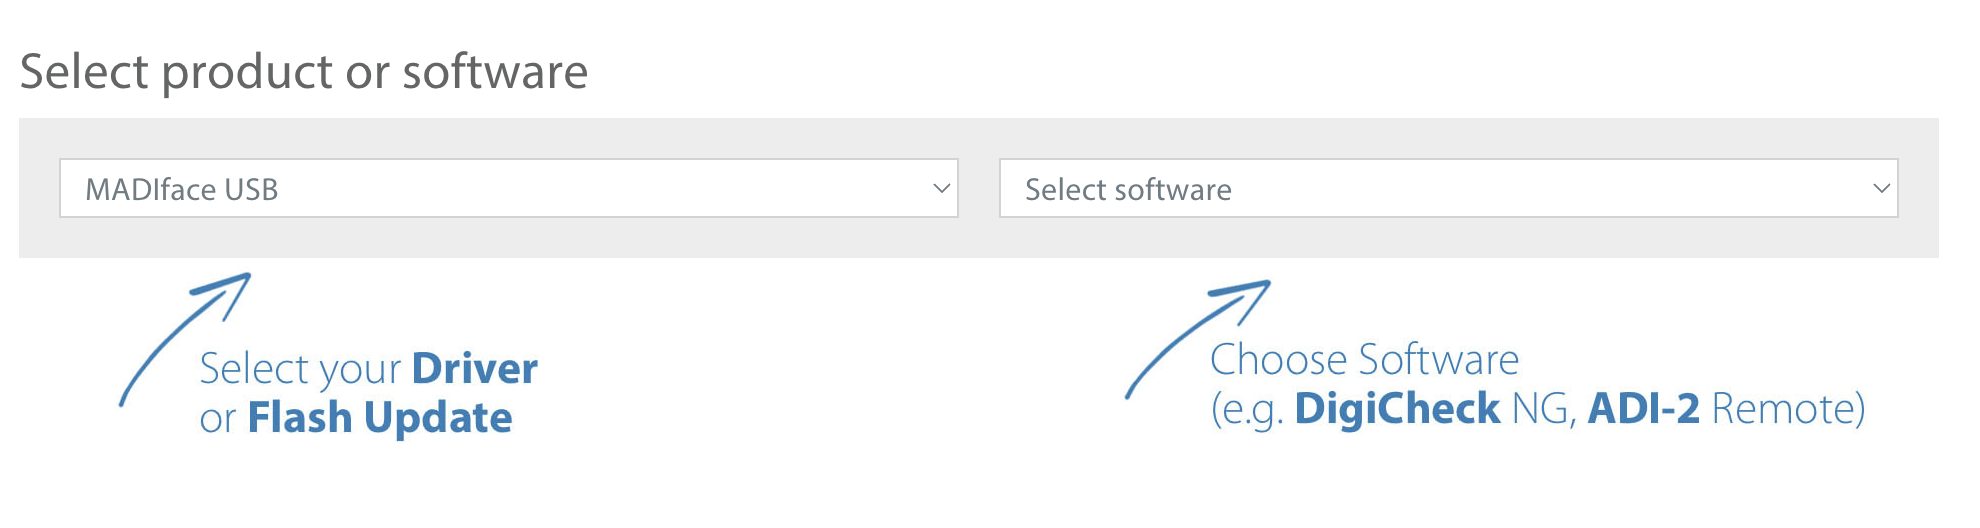
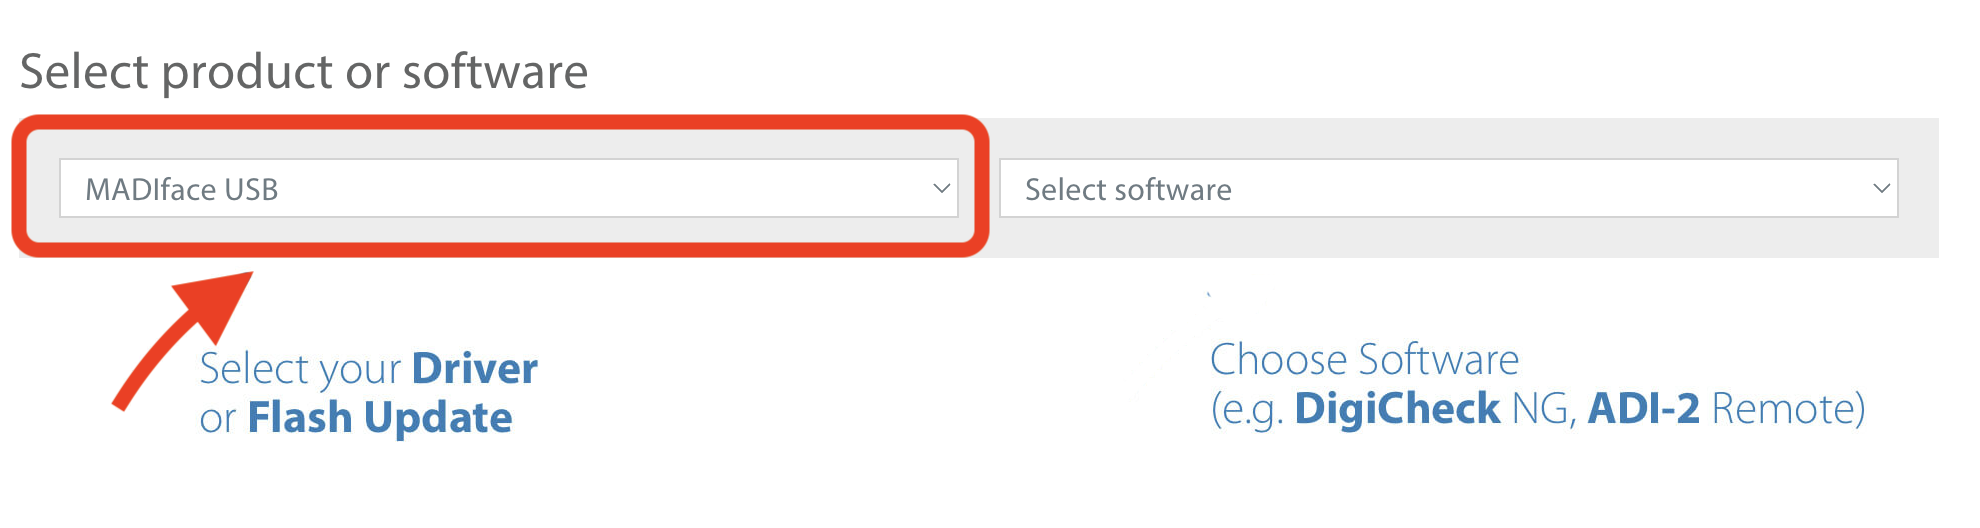
Update First Time Installation guide with TotalMix2025.tmws file references and additional screenshots

Changed region(s): [[0.0, 0.2121, 0.5237, 0.7576], [0.5854, 0.5152, 0.647, 0.6667], [0.5545, 0.697, 0.5854, 0.7576]]

diff --git a/first-time-installation.html b/first-time-installation.html
@@ -23,9 +23,6 @@
         .step {
             margin: 20px 0;
             padding: 15px;
-            background: #f8f5ff;
-            border-left: 4px solid var(--nyu-purple);
-            border-radius: 5px;
         }
         
         .step h3 {
@@ -102,55 +99,80 @@
             
             <div class="step">
                 <h3>Download RME Driver</h3>
-                <div class="substep">
-                    <strong>1. Navigate to the RME downloads page:</strong>
-                    <p>Go to: <a href="https://rme-audio.de/downloads.html" target="_blank" rel="noopener">rme-audio.de/downloads.html</a></p>
-                </div>
-                
-                <div class="substep">
-                    <strong>2. Select Product:</strong>
-                    <p>Under "Select Product or Software", choose <strong>MadiFace USB</strong> in the left dialog box.</p>
-                    <div class="screenshot">
-                        <img src="images/screenshot1.png" alt="RME Product Selection Dialog" style="max-width: 100%; height: auto; border-radius: 5px; margin-top: 10px;">
-                    </div>
-                </div>
-                
-                <div class="substep">
-                    <strong>3. Select Operating System and Driver Type:</strong>
-                    <p>Select your operating system, and then select <strong>"Driver"</strong>.</p>
-                    <div class="screenshot">
-                        <img src="images/screenshot2.png" alt="RME OS and Driver Selection" style="max-width: 100%; height: auto; border-radius: 5px; margin-top: 10px;">
-                    </div>
-                </div>
-                
-                <div class="substep">
-                    <strong>4. Download the Correct Driver:</strong>
-                    <p><strong>Download only the latest DriverKit Driver.</strong> Ignore "Kernel Extension Driver".</p>
-                    <div class="screenshot">
-                        <img src="images/screenshot3.png" alt="RME Driver Selection Options" style="max-width: 100%; height: auto; border-radius: 5px; margin-top: 10px;">
-                    </div>
-                </div>
+                <ul style="list-style: none; padding-left: 0;">
+                    <li style="margin: 15px 0;">
+                        <span style="color: var(--nyu-purple); font-weight: bold;">•</span> Navigate to the RME downloads page: <a href="https://rme-audio.de/downloads.html" target="_blank" rel="noopener">rme-audio.de/downloads.html</a>
+                    </li>
+                    
+                    <li style="margin: 15px 0;">
+                        <span style="color: var(--nyu-purple); font-weight: bold;">•</span> Under "Select Product or Software", choose <strong style="color: var(--nyu-purple);">MadiFace USB</strong> in the left dialog box.
+                        <div class="screenshot">
+                            <img src="images/screenshot1.png" alt="RME Product Selection Dialog" style="max-width: 100%; height: auto; border-radius: 5px; margin-top: 10px;">
+                        </div>
+                    </li>
+                    
+                    <li style="margin: 15px 0;">
+                        <span style="color: var(--nyu-purple); font-weight: bold;">•</span> Select your operating system, and then select <strong style="color: var(--nyu-purple);">"Driver"</strong>.
+                        <div class="screenshot">
+                            <img src="images/screenshot2.png" alt="RME OS and Driver Selection" style="max-width: 100%; height: auto; border-radius: 5px; margin-top: 10px;">
+                        </div>
+                    </li>
+                    
+                    <li style="margin: 15px 0;">
+                        <span style="color: var(--nyu-purple); font-weight: bold;">•</span> <strong style="color: var(--nyu-purple);">Download only the latest DriverKit Driver.</strong> Ignore "Kernel Extension Driver".
+                        <div class="screenshot">
+                            <img src="images/screenshot3.png" alt="RME Driver Selection Options" style="max-width: 100%; height: auto; border-radius: 5px; margin-top: 10px;">
+                        </div>
+                    </li>
+                    
+                    <li style="margin: 15px 0;">
+                        <span style="color: var(--nyu-purple); font-weight: bold;">•</span> After installation, you should have both <strong style="color: var(--nyu-purple);">Totalmix</strong> and <strong style="color: var(--nyu-purple);">FireFace USB Settings</strong> in your Applications folder.
+                    </li>
+                </ul>
             </div>
             
             <div class="step">
                 <h3>After Installation</h3>
-                <p>After installation, you should have both <strong>Totalmix</strong> and <strong>FireFace USB Settings</strong> in your Applications folder.</p>
+                
+                <ul style="list-style: none; padding-left: 0;">
+                    <li style="margin: 15px 0;">
+                        <span style="color: var(--nyu-purple); font-weight: bold;">•</span> Open both <strong style="color: var(--nyu-purple);">TotalMix</strong> and <strong style="color: var(--nyu-purple);">FireFace USB Settings</strong> applications.
+                    </li>
                 
                 <div class="warning">
                     <h4><i class="fas fa-exclamation-triangle"></i> Important Note</h4>
-                    <p>Due to a known DriverKit bug, audio may not play until both Totalmix and FireFace USB Settings windows have been opened. You may want to force them to automatically open every time your computer starts up.</p>
+                    <p>Due to a known <strong style="color: var(--nyu-purple);">DriverKit bug</strong>, audio may not play until both Totalmix and FireFace USB Settings windows have been opened. You may want to force them to <strong style="color: var(--nyu-purple);">automatically open</strong> every time your computer starts up.</p>
                     
                     <p><strong>To set up auto-start:</strong></p>
                     <ol>
-                        <li>Go to <strong>System Preferences</strong></li>
-                        <li>Navigate to <strong>Login Items & Extensions</strong></li>
-                        <li>Click <strong>Open at Login</strong></li>
-                        <li>Add both applications via the <strong>'+'</strong> button</li>
+                        <li>Go to <strong style="color: var(--nyu-purple);">System Preferences</strong>.</li>
+                        <li>Navigate to <strong style="color: var(--nyu-purple);">Login Items & Extensions</strong>.</li>
+                        <li>Click <strong style="color: var(--nyu-purple);">Open at Login</strong>.</li>
+                        <li>Add both applications via the <strong style="color: var(--nyu-purple);">'+'</strong> button.</li>
                     </ol>
                     
                     <div class="screenshot">
                         <img src="images/screenshot4.png" alt="System Preferences Login Items Configuration" style="max-width: 100%; height: auto; border-radius: 5px; margin-top: 10px;">
                     </div>
+                </div>
+                
+                    <li style="margin: 15px 0;">
+                        <span style="color: var(--nyu-purple); font-weight: bold;">•</span> Download the <strong style="color: var(--nyu-purple);">TotalMix2025.tmws</strong> file from <a href="https://drive.google.com/file/d/1RA4nRW7Ua7Z82gw_JJcleok4c8Zwbl6e/view?usp=drive_link" target="_blank" rel="noopener" style="color: var(--nyu-purple); font-weight: bold;">this link</a>. This is the template for the Research Lab.
+                    </li>
+                    
+                    <li style="margin: 15px 0;">
+                        <span style="color: var(--nyu-purple); font-weight: bold;">•</span> In <strong style="color: var(--nyu-purple);">TotalMix</strong>, go to <strong style="color: var(--nyu-purple);">File > Load Workspace</strong>, and load the <strong style="color: var(--nyu-purple);">TotalMix2025.tmws</strong> file you just downloaded. TotalMix is now configured for the Research Lab.
+                    </li>
+                </ul>
+                
+                <div class="screenshot">
+                    <img src="images/screenshot5.png" alt="TotalMix Workspace Configuration" style="max-width: 100%; height: auto; border-radius: 5px; margin-top: 10px;">
+                </div>
+                
+                <div style="text-align: center; margin-top: 30px; padding: 20px;">
+                    <a href="https://www.rme-audio.de/totalmix-fx.html" target="_blank" rel="noopener" style="color: white; background-color: var(--nyu-purple); font-weight: bold; text-decoration: none; padding: 10px 20px; border: 2px solid var(--nyu-purple); border-radius: 5px; display: inline-block;">
+                        Click here to learn more about TotalMix
+                    </a>
                 </div>
             </div>
         </div>

diff --git a/research-lab.html b/research-lab.html
@@ -1,0 +1,160 @@
+<!DOCTYPE html>
+<html lang="en">
+<head>
+    <meta charset="UTF-8">
+    <meta name="viewport" content="width=device-width, initial-scale=1.0">
+    <title>Research Lab - NYU MPAP Room Guides</title>
+    <link rel="icon" type="image/x-icon" href="images/favicon.ico">
+    <link rel="apple-touch-icon" href="images/apple-touch-icon.png">
+    <link rel="stylesheet" href="css/styles.css?v=3.0">
+    <link rel="stylesheet" href="https://cdnjs.cloudflare.com/ajax/libs/font-awesome/6.0.0/css/all.min.css">
+    <script src="https://cdnjs.cloudflare.com/ajax/libs/p5.js/1.9.0/p5.min.js"></script>
+    <script src="js/background.js"></script>
+    <style>
+        .research-content {
+            max-width: 800px;
+            margin: 0 auto;
+            padding: 20px;
+            background: rgba(255, 255, 255, 0.95);
+            border-radius: 10px;
+            box-shadow: 0 4px 6px rgba(0, 0, 0, 0.1);
+        }
+        
+        .research-options {
+            display: grid;
+            grid-template-columns: repeat(auto-fit, minmax(300px, 1fr));
+            gap: 20px;
+            margin: 30px 0;
+        }
+        
+        .research-card {
+            background: #f8f5ff;
+            border: 2px solid var(--nyu-light-purple);
+            border-radius: 10px;
+            padding: 25px;
+            text-align: center;
+            transition: all 0.3s ease;
+            text-decoration: none;
+            color: var(--nyu-dark-gray);
+        }
+        
+        .research-card:hover {
+            background: var(--nyu-light-purple);
+            color: white;
+            transform: translateY(-5px);
+            box-shadow: 0 8px 15px rgba(0, 0, 0, 0.2);
+            text-decoration: none;
+        }
+        
+        .research-card h3 {
+            color: var(--nyu-purple);
+            margin-bottom: 15px;
+            font-size: 1.5em;
+        }
+        
+        .research-card:hover h3 {
+            color: white;
+        }
+        
+        .research-card p {
+            margin: 0;
+            line-height: 1.5;
+        }
+        
+        .research-card i {
+            font-size: 3em;
+            color: var(--nyu-light-purple);
+            margin-bottom: 15px;
+        }
+        
+        .research-card:hover i {
+            color: white;
+        }
+        
+        .back-link {
+            display: inline-block;
+            margin-bottom: 20px;
+            color: var(--nyu-purple);
+            text-decoration: none;
+            font-weight: bold;
+            padding: 8px 16px;
+            background: #f8f5ff;
+            border: 1px solid var(--nyu-light-purple);
+            border-radius: 5px;
+            transition: all 0.3s ease;
+        }
+        
+        .back-link:hover {
+            background: var(--nyu-light-purple);
+            color: white;
+            text-decoration: none;
+        }
+    </style>
+</head>
+<body>
+    <div class="container">
+        <header>
+            <div class="header-content">
+                <img src="images/nyu-logo.svg" alt="NYU Logo" class="nyu-logo">
+                <h1>MPAP ROOM GUIDES</h1>
+            </div>
+        </header>
+
+        <div class="research-content">
+            <a href="index.html" class="back-link">
+                <i class="fas fa-arrow-left"></i> Back to Room Guides
+            </a>
+            
+            <h2><i class="fas fa-microscope"></i> Research Lab</h2>
+            <p>Access research lab resources and setup guides for MPAP equipment and software.</p>
+            
+            <div class="research-options">
+                <a href="first-time-installation.html" class="research-card">
+                    <i class="fas fa-download"></i>
+                    <h3>First Time Installation</h3>
+                    <p>Step-by-step guide for setting up RME drivers and audio equipment configuration.</p>
+                </a>
+                
+                <a href="https://sites.google.com/nyu.edu/research-lab-guide-2024-home/" target="_blank" rel="noopener" class="research-card">
+                    <i class="fas fa-external-link-alt"></i>
+                    <h3>Research Lab Guide</h3>
+                    <p>External comprehensive guide for research lab procedures and equipment usage.</p>
+                </a>
+            </div>
+        </div>
+
+        <footer>
+            <p>© NYU MPAP Room Guide</p>
+        </footer>
+    </div>
+
+    <script>
+        // Cat toggle logic
+        let catEnabled = false;
+        let catScript = null;
+        function toggleCat() {
+            if (!catEnabled) {
+                catScript = document.createElement('script');
+                catScript.src = 'js/oneko.js';
+                catScript.dataset.cat = 'js/images/oneko.gif';
+                document.body.appendChild(catScript);
+                catEnabled = true;
+            } else {
+                const neko = document.getElementById('oneko');
+                if (neko) neko.remove();
+                if (catScript) catScript.remove();
+                catScript = null;
+                catEnabled = false;
+            }
+        }
+        document.addEventListener('DOMContentLoaded', function() {
+            const logo = document.querySelector('.nyu-logo');
+            if (logo) {
+                logo.style.cursor = 'pointer';
+                logo.title = 'Toggle Cat';
+                logo.addEventListener('click', toggleCat);
+            }
+        });
+    </script>
+</body>
+</html>

diff --git a/index.html b/index.html
@@ -171,9 +171,9 @@
                                 <div class="space-name">Conference Room</div>
                                 <div class="space-type">Room Guide</div>
                             </a>
-                            <a href="first-time-installation.html" class="sixth-3d" data-sixth="installation">
-                                <div class="space-name">First Time Installation</div>
-                                <div class="space-type">Setup Guide</div>
+                            <a href="research-lab.html" class="sixth-3d" data-sixth="research-lab">
+                                <div class="space-name">Research Lab</div>
+                                <div class="space-type">Lab Resources</div>
                             </a>
                             <a href="https://sites.google.com/d/1k5eUQSPiiMZ6PacG0CNLb7qiTxxXeNfa/p/10u29xz3tRg0KUCxRs_1Lf-Nzat5rkz3i/edit" target="_blank" rel="noopener" class="sixth-3d" data-sixth="buchla">
                                 <div class="space-name">Buchla</div>
